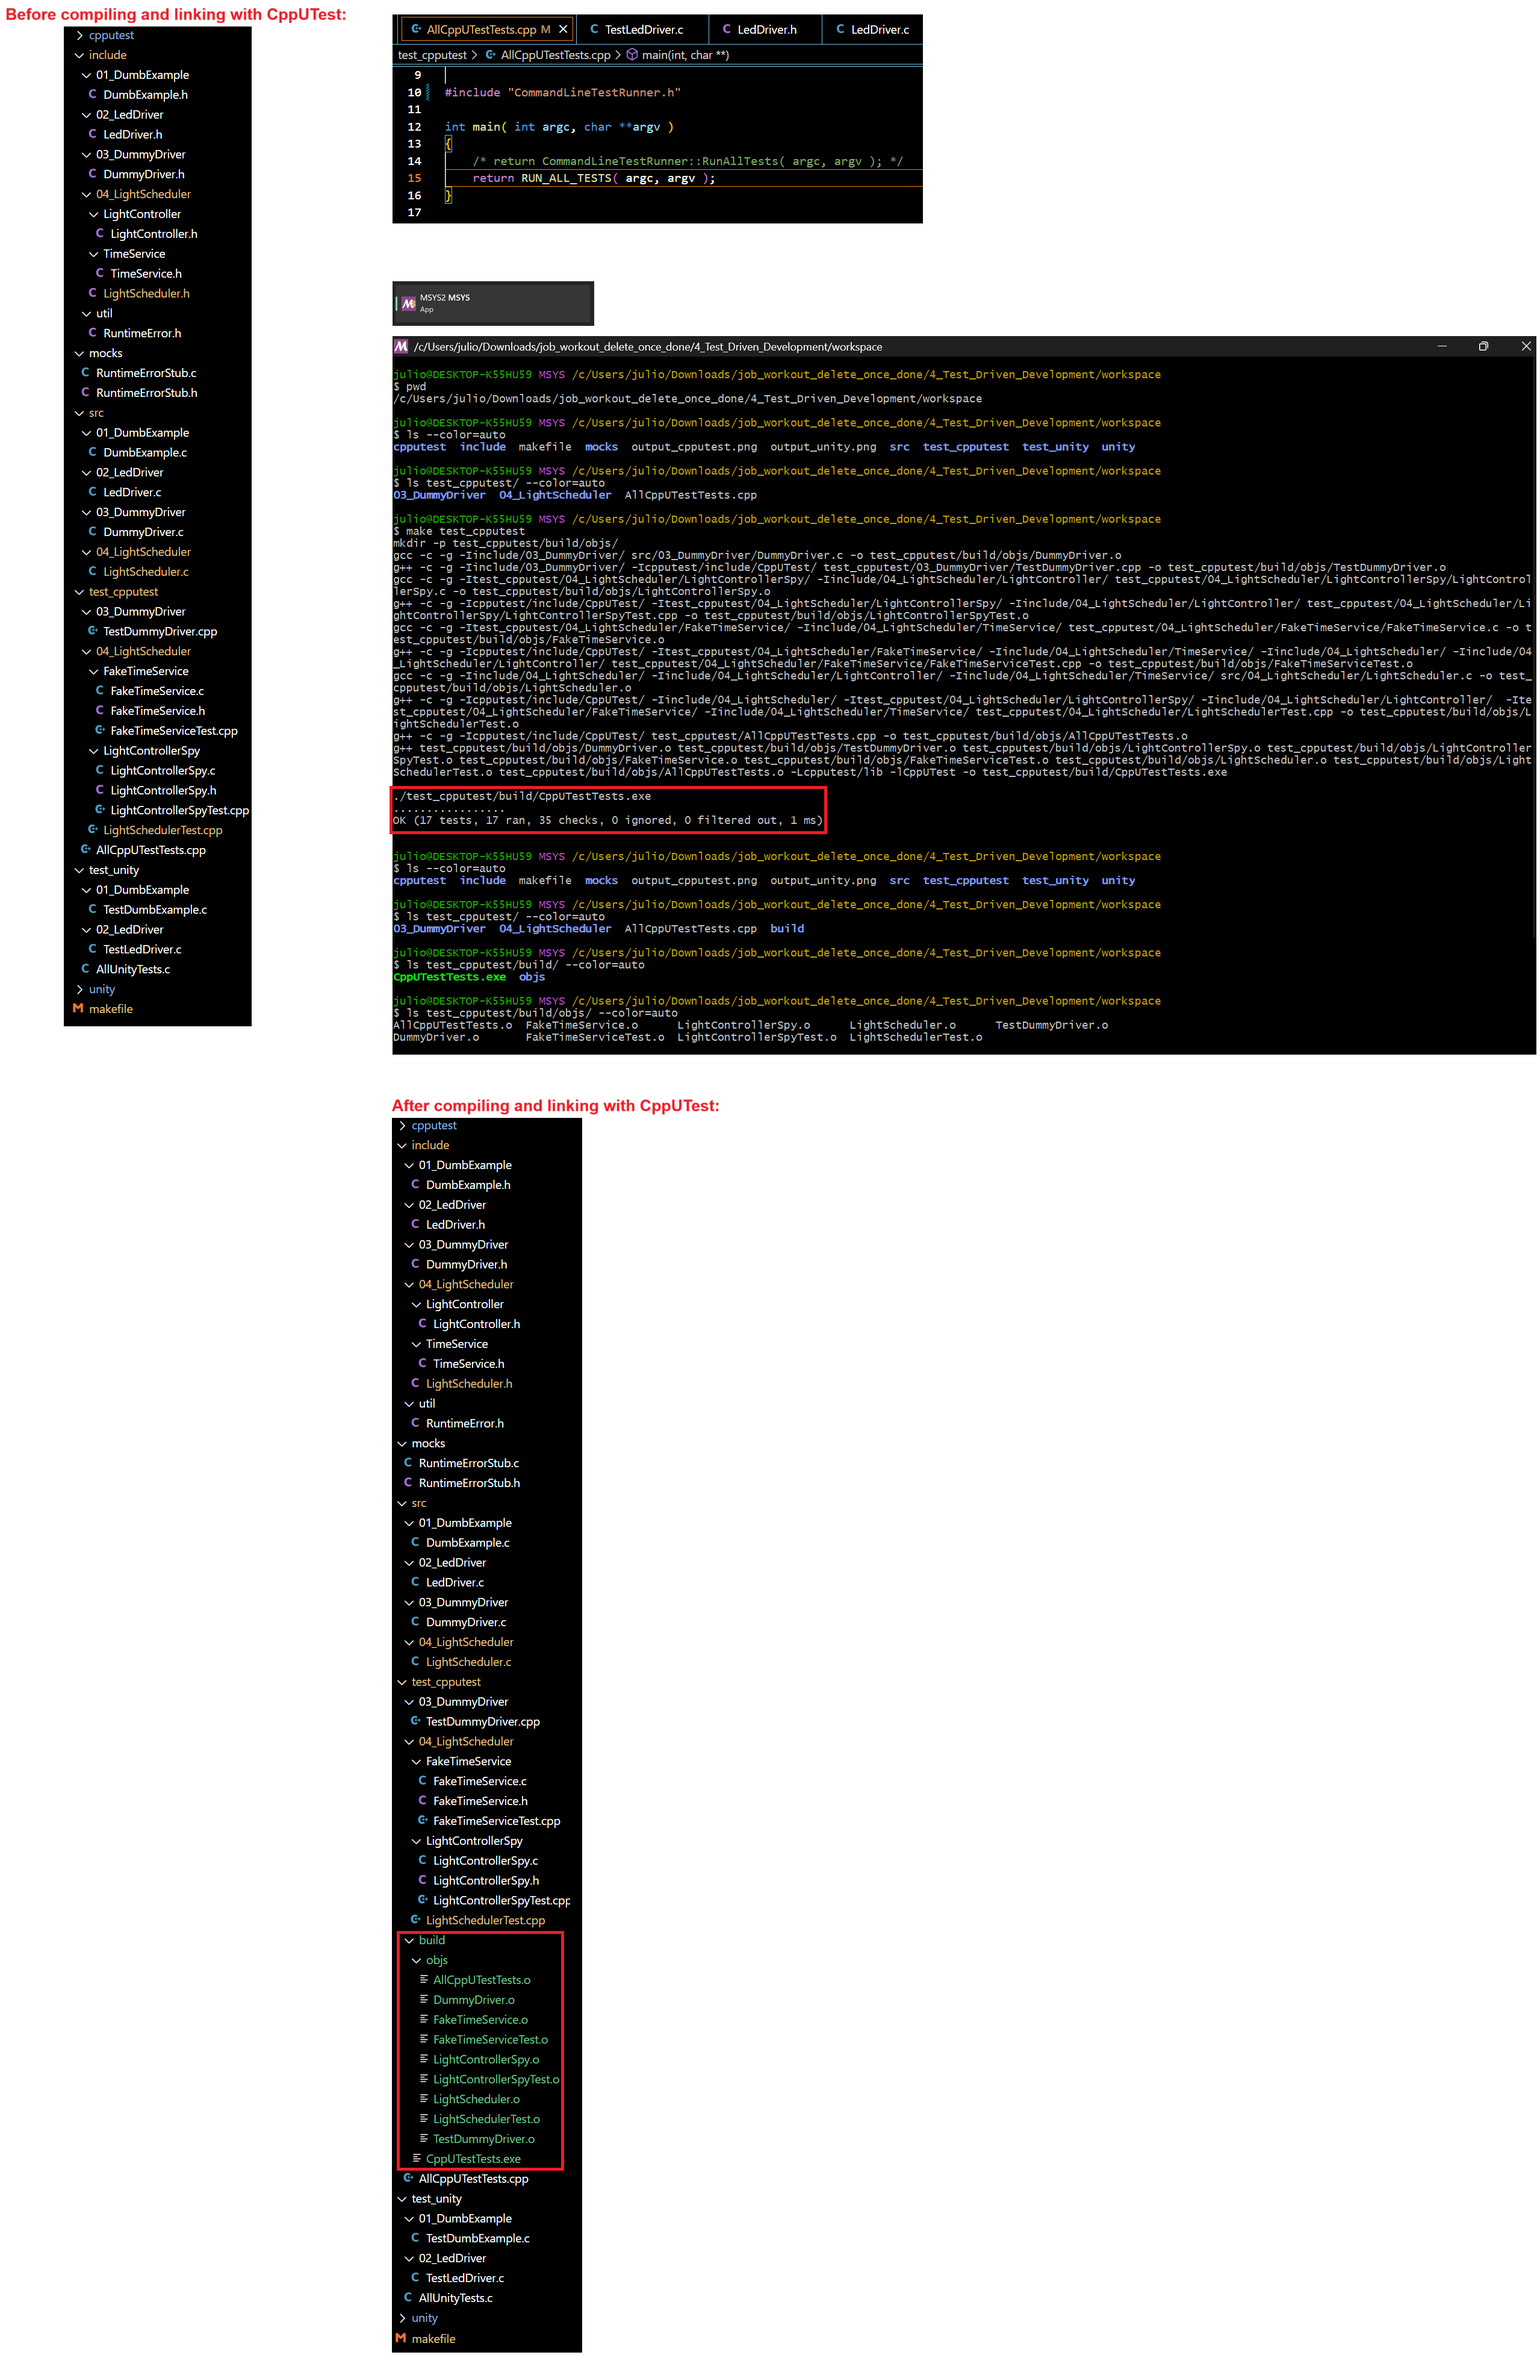
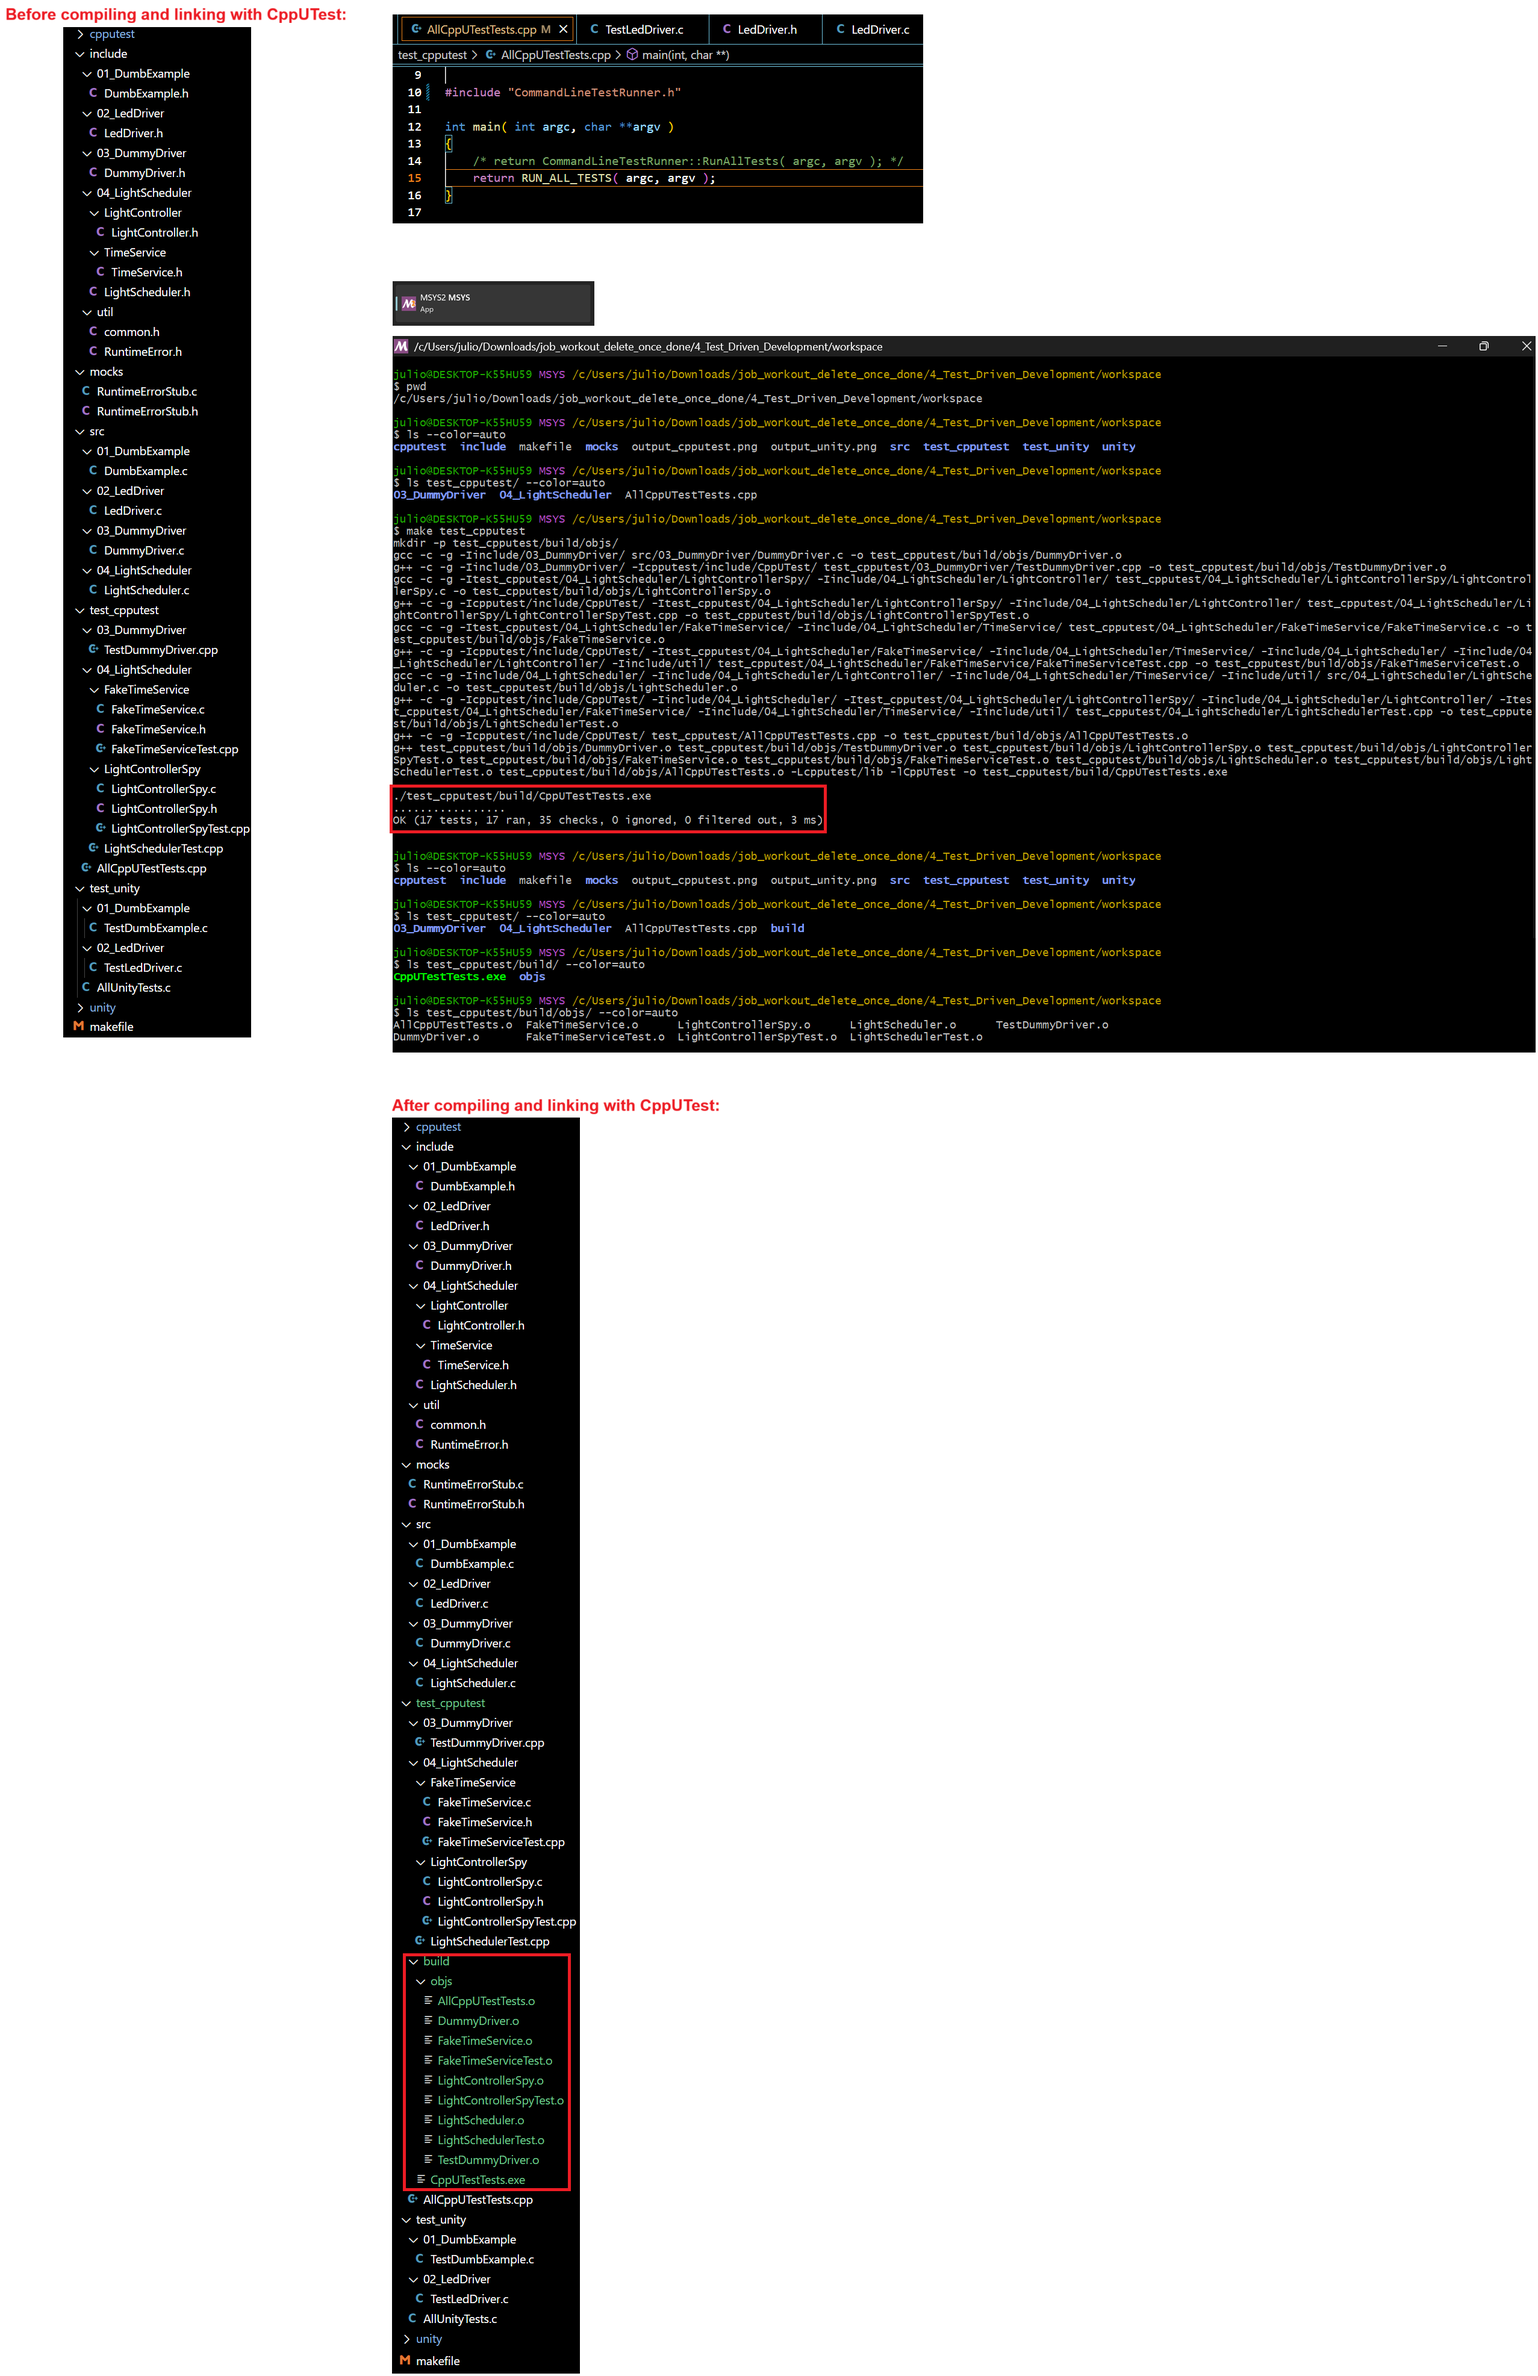
Refactor Light Scheduler: doesLightRespondToday() and processEventDueNow()

diff --git a/src/04_LightScheduler/LightScheduler.c b/src/04_LightScheduler/LightScheduler.c
@@ -52,6 +52,31 @@ static void operateLight( ScheduledLightEvent *lightEvent )
     lightEvent->event == TURN_ON ? LightController_On( scheduledEvent.id ) : LightController_Off( scheduledEvent.id );
 }
 
+static int doesLightRespondToday( int today, int scheduledDay )
+{
+    /* this helper function returns TRUE if the today is the day for the scheduled light to be turned on or off,
+       otherwise returns FALSE */
+
+    /* if the light is scheduled to turn on/off everyday (then no matter the day, today the light should be turned on/off) */
+    if ( scheduledDay == EVERYDAY )
+        return TRUE;
+
+    /* if the light is scheduled to turn on/off today */
+    if ( scheduledDay == today )
+        return TRUE;
+
+    /* if the light is scheduled to turn on/off on the weekends and today is either saturday or sunday */
+    if ( ( scheduledDay == WEEKEND ) && ( ( today == SATURDAY ) || ( today == SUNDAY ) ) )
+        return TRUE;
+
+    /* if the light is scheduled to turn on/off and today is either monday to friday */
+    if ( ( scheduledDay == WEEKDAY ) && ( ( today >= MONDAY ) && ( today <= FRIDAY ) ) )
+        return TRUE;
+
+    /* if none of the previous conditions is satisfied, then today the light is not scheduled to turn on/off */
+    return FALSE;
+}
+
 static void processEventDueNow( Time *time, ScheduledLightEvent *lightEvent )
 {
     /* processEventDueNow is responsible for conditionally triggering a single event.
@@ -65,11 +90,8 @@ static void processEventDueNow( Time *time, ScheduledLightEvent *lightEvent )
     if ( lightEvent->id == UNUSED )
         return;
 
-    /* if the scheduled day for the light to be turned on/off:
-       - is not everyday and is not today (i.e. scheduled day is not set for everyday or day has not been reached) and ...
-       - is not weekday and today is not saturday (i.e. scheduled day is set for the weekends but today is not saturday) */
-    if ( ( scheduledDay != EVERYDAY ) && ( scheduledDay != today )
-      && ( scheduledDay != WEEKDAY ) && ( today != SATURDAY ) && ( today != SUNDAY ) )
+    /* if today is not the scheduled day for the light to be turned on/off */
+    if ( doesLightRespondToday( today, scheduledDay ) == FALSE )
         return;
 
     /* if the scheduled minute for the light to be turned on/off is not the same as the current minute of the day */

diff --git a/include/util/common.h b/include/util/common.h
@@ -1,0 +1,21 @@
+/**
+ * @file    common.h
+ * @author  Julio Cesar Bernal Mendez
+ * @brief   header file containing common definitions used across different files
+ * 
+ * @version 0.1
+ * @date    2025-04-03
+ */
+
+#ifndef COMMON_H
+#define COMMON_H
+
+    #ifndef FALSE
+    #define FALSE 0
+    #endif
+
+    #ifndef TRUE
+    #define TRUE 1
+    #endif
+
+#endif

diff --git a/include/04_LightScheduler/LightScheduler.h b/include/04_LightScheduler/LightScheduler.h
@@ -12,6 +12,7 @@
 
     #include "LightController.h"
     #include "TimeService.h"
+    #include "common.h"
 
     typedef enum
     {
